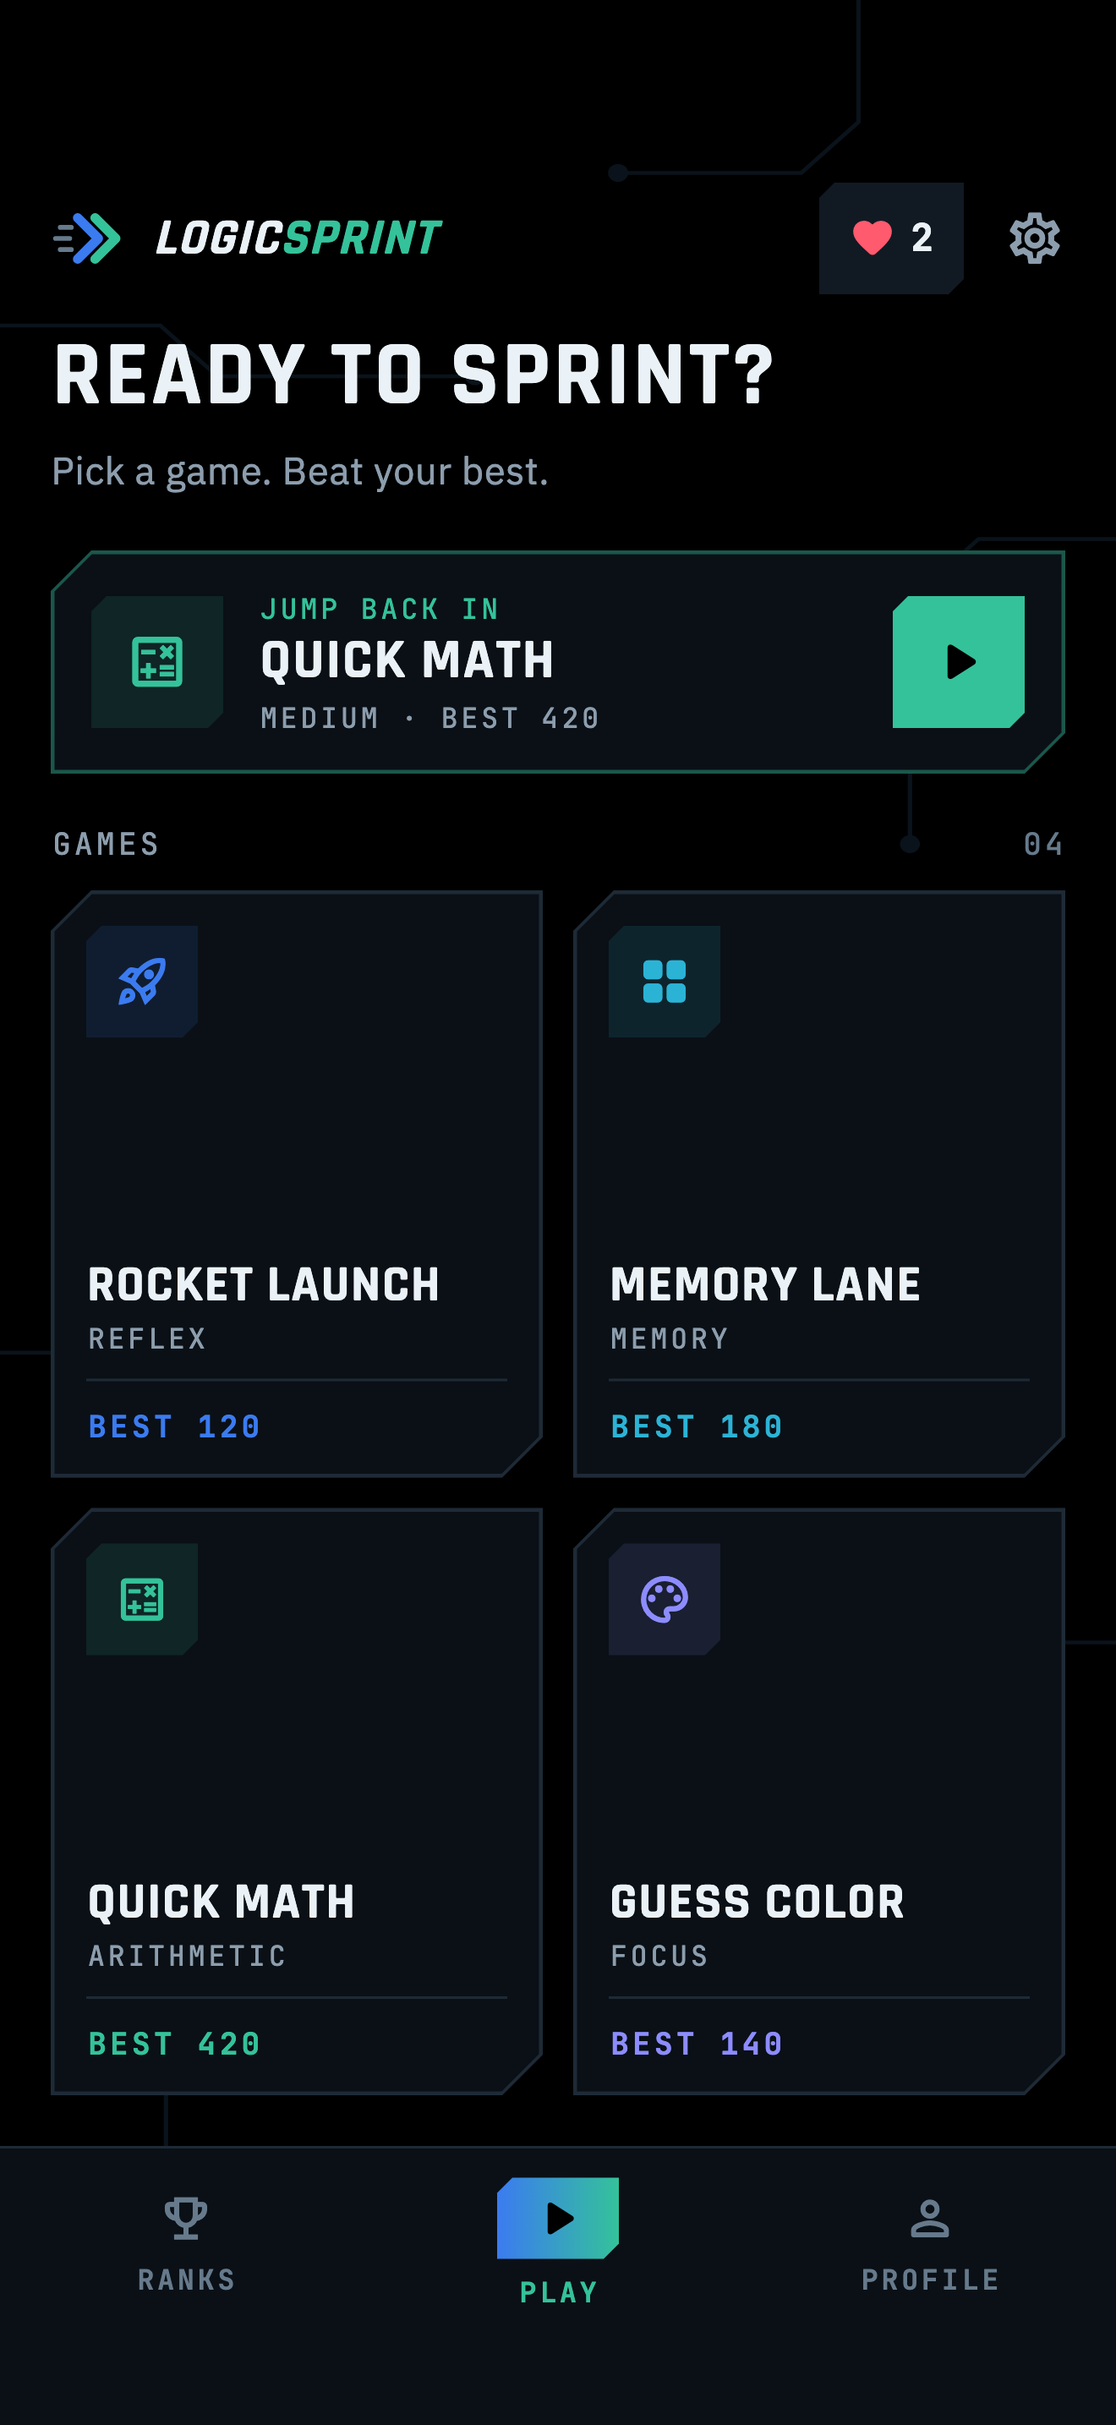
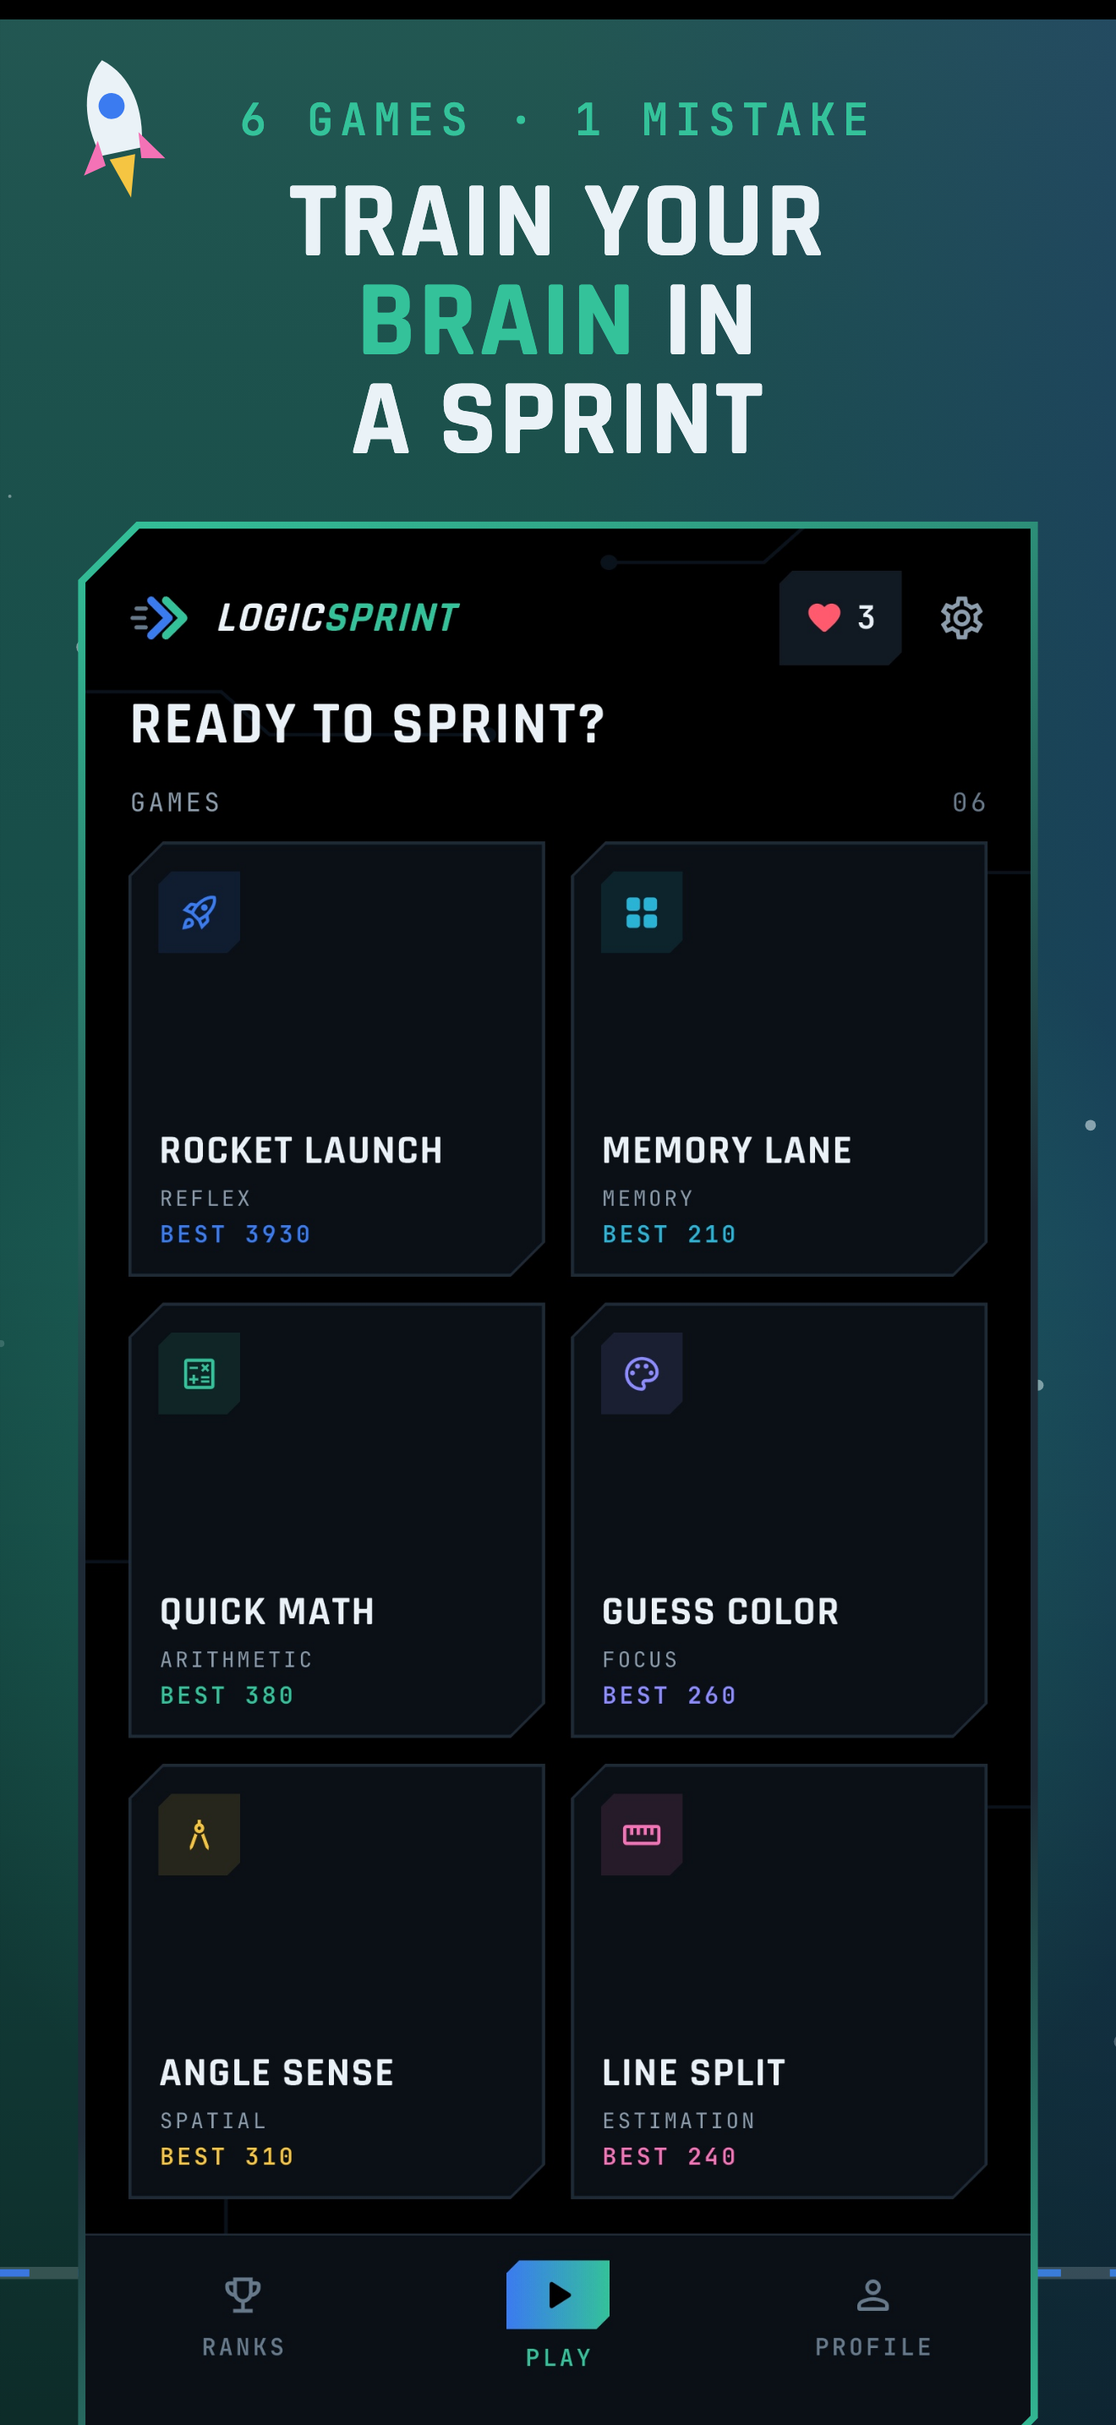
release 1.1.0+9: store screenshots, listing copy, release notes
- Version 1.1.0+9 and docs/release_notes/1.1.0.md with paste-ready
  App Store and Play text.
- New store screenshots from real 1.1 captures on a 6.9" simulator:
  10 App Store frames (1320x2868, plus 1206x2622 and 1284x2778 sets)
  and 8 Play frames (1080x1920), all RGB.
- store_shots_test.dart: home, game scenes (Medium where a game has
  levels), a Line Split miss sent as device input, and a Rocket run that
  crashes into the revive offer.
- store_listing.md: six-game descriptions, new short/promo text and
  keywords, 1.1.0 release notes, support email hello@trueorfalse.dev.

diff --git a/integration_test/store_shots_test.dart b/integration_test/store_shots_test.dart
@@ -80,12 +80,50 @@ Future<void> _hold(String scene, int ms) async {
   await Future.delayed(Duration(milliseconds: ms));
 }
 
+/// A finger on the screen, sent as device input like a real touch (the test
+/// binding draws a crosshair over test-dispatched pointers; this one shows
+/// nothing). Same as store_demo_test.dart.
+class _Touch {
+  _Touch(Offset at) : _at = at, _pointer = _nextPointer++ {
+    _send(PointerDownEvent(pointer: _pointer, position: at));
+  }
+
+  static int _nextPointer = 1000;
+  final int _pointer;
+  Offset _at;
+
+  void moveTo(Offset at) {
+    _send(PointerMoveEvent(pointer: _pointer, position: at, delta: at - _at));
+    _at = at;
+  }
+
+  void up() => _send(PointerUpEvent(pointer: _pointer, position: _at));
+
+  static void _send(PointerEvent event) =>
+      TestWidgetsFlutterBinding.instance.handlePointerEventForSource(
+        event,
+        source: TestBindingEventSource.device,
+      );
+}
+
+/// Scenes, picked with `--dart-define=SCENE=name`:
+///   (none)        Home, Ranks, Profile (top, scrolled), Rocket Launch
+///   game title    that game's first question ("Guess Color", "Angle Sense"…)
+///   Line Split    one deliberate miss, to show how close the guess was
+///   Revive        a Rocket Launch run that crashes and offers a heart
+const _scene = String.fromEnvironment('SCENE');
+
 void main() {
   final binding = IntegrationTestWidgetsFlutterBinding.ensureInitialized();
   binding.framePolicy = LiveTestWidgetsFlutterBindingFramePolicy.fullyLive;
 
   testWidgets('store shots', (tester) async {
-    SharedPreferences.setMockInitialValues(_prefs);
+    binding.shouldPropagateDevicePointerEvents = true;
+    SharedPreferences.setMockInitialValues({
+      ..._prefs,
+      // A low best, so the revive run beats it quickly.
+      if (_scene == 'Revive') 'highScore_rocketLaunch_medium': 10,
+    });
     final storage = Storage(await SharedPreferences.getInstance());
     // Recent runs for the History preview on Profile.
     for (final (i, (g, best, _, time)) in _bests.reversed.indexed) {
@@ -116,42 +154,63 @@ void main() {
     await Future.delayed(const Duration(seconds: 4));
     await tester.pump();
 
-    // --dart-define=SCENE=<name> runs one game scene only.
-    const scene = String.fromEnvironment('SCENE');
-    if (scene.isNotEmpty) {
-      await tester.tap(find.text(scene.toUpperCase()).first);
+    Future<void> startGame(String title, {String? level}) async {
+      await tester.tap(find.text(title.toUpperCase()).first);
       await tester.pump();
       await Future.delayed(const Duration(seconds: 2));
+      final pick = find.text(level ?? 'MEDIUM');
+      if (pick.evaluate().isNotEmpty) {
+        await tester.tap(pick.first);
+        await tester.pump();
+        await Future.delayed(const Duration(milliseconds: 600));
+      }
       await tester.tap(find.textContaining('START').last);
       await tester.pump();
-      await _hold('scene', 12000);
-      debugPrint('SHOT_MARK done');
-      return;
     }
 
-    await tester.tap(find.text('RANKS').last);
-    await tester.pump();
-    await _hold('ranks', 20000);
-
-    await tester.tap(find.text('PROFILE').last);
-    await tester.pump();
-    await _hold('profile', 20000);
-
-    await tester.drag(find.byType(Scrollable).first, const Offset(0, -500));
-    await tester.pump();
-    await _hold('profile_scrolled', 15000);
-
-    // Rocket Launch in the first theme (under 1250 points): white hull, blue
-    // trim, teal flame on black space, the app's own colours.
-    await tester.tap(find.text('PLAY').last);
-    await tester.pump();
-    await Future.delayed(const Duration(seconds: 2));
-    await tester.tap(find.text('ROCKET LAUNCH').first);
-    await tester.pump();
-    await Future.delayed(const Duration(seconds: 2));
-    await tester.tap(find.textContaining('START').last);
-    await tester.pump();
-    await _hold('rocket', 12000);
+    switch (_scene) {
+      case '':
+        await _hold('home', 8000);
+        await tester.tap(find.text('RANKS').last);
+        await tester.pump();
+        await _hold('ranks', 12000);
+        await tester.tap(find.text('PROFILE').last);
+        await tester.pump();
+        await _hold('profile', 12000);
+        await tester.drag(find.byType(Scrollable).first, const Offset(0, -500));
+        await tester.pump();
+        await _hold('profile_scrolled', 10000);
+        // Rocket Launch in the first theme (under 1250 points): white hull,
+        // blue trim, teal flame on black space, the app's own colours.
+        await tester.tap(find.text('PLAY').last);
+        await tester.pump();
+        await Future.delayed(const Duration(seconds: 2));
+        await startGame('Rocket Launch');
+        await _hold('rocket', 12000);
+      case 'Line Split':
+        await startGame('Line Split');
+        await Future.delayed(const Duration(milliseconds: 2500));
+        final size = tester.view.physicalSize / tester.view.devicePixelRatio;
+        final touch = _Touch(Offset(size.width * 0.23, size.height * 0.6));
+        await Future.delayed(const Duration(milliseconds: 250));
+        touch.moveTo(Offset(size.width * 0.235, size.height * 0.6));
+        await Future.delayed(const Duration(milliseconds: 250));
+        touch.up();
+        await _hold('miss', 8000);
+      case 'Revive':
+        await startGame('Rocket Launch');
+        await _hold('revive', 25000);
+      case 'Angle Sense':
+        await startGame('Angle Sense', level: 'MEDIUM');
+        await _hold('scene', 10000);
+      default:
+        await startGame(_scene);
+        await _hold('scene', 10000);
+    }
     debugPrint('SHOT_MARK done');
+
+    await tester.pumpWidget(const SizedBox());
+    await tester.pump();
+    binding.shouldPropagateDevicePointerEvents = false;
   }, timeout: const Timeout(Duration(minutes: 5)));
 }

diff --git a/assets/brand/docs/store_listing.md b/assets/brand/docs/store_listing.md
@@ -10,13 +10,13 @@ Play Console → Grow users → Store presence → Main store listing.
 LogicSprint: Brain Games
 
 ## Short description (max 80)
-Brain training games for memory, math, reflexes & focus. How far can you go?
+Six brain games for memory, math, reflexes, focus & angles. How far can you go?
 
 ## Full description (max 4000)
 ```
-Train your brain in a minute a day. LogicSprint is a free brain training app with four endless mini games for memory, mental math, reflexes and focus. Every run gets harder until your first mistake. How far can you go?
+Train your brain in a minute a day. LogicSprint is a free brain training app with six endless mini games for reflexes, memory, mental math, focus, angles and fractions. Every run gets harder until your first mistake. How far can you go?
 
-FOUR BRAIN GAMES
+SIX BRAIN GAMES
 
 • Rocket Launch (reflexes) – Pick a rocket, UFO, spaceship or missile and steer it through an asteroid storm with one finger. Space changes colour every 1250 points and the storm speeds up little by little. One hit ends the run. Can you reach 10,000?
 
@@ -26,17 +26,26 @@ FOUR BRAIN GAMES
 
 • Guess Color (focus) – A Stroop color test: tap the color a word is painted in, or the color the word names, as the COLOR | TEXT rule flips. The buttons shuffle, their labels stop matching and the clock gets shorter.
 
+• Angle Sense (angles) – Read an angle and lock it in on the degree tape, or drag the arm to match. Flat angles first, then upright and crossed lines, with clocks, pies and a compass round on Medium. Within 3° counts as Sharp. Two shields per run.
+
+• Line Split (fractions) – Touch where a number falls on the line: ½, then ⅓, ⅜, 0.43 and fractions like 11/5. The lines get longer and the middle numbers disappear as you go, and you see exactly how close you were. Two shields per run.
+
+YOUR SPRINT SCORE
+
+• One score across all six games, shown as Top X% once enough players are rated
+• Your Profile shows every game's best with its board rank, plus your full run history
+• Share your stats with one tap
+
 WHY PLAYERS LIKE IT
 
 • Quick runs, made for a coffee break or the commute
-• Up to 3 revives per run with hearts or a short video
-• Easy, Medium and Hard for Memory Lane and Quick Math
+• Up to 3 revives per run with hearts or a short video, with a 3-2-1 countdown to get ready
+• Easy, Medium and Hard for Memory Lane, Quick Math and Angle Sense
 • Global Top 10 for every game, updated daily at 00:00 UTC – pick a name with your own 4-digit code (like NEON_FOX#0420)
-• Personal bests, play counts and run history in your Profile
 • Plays offline – runs sync when you're back online
 • No login, email or sign-up
 • Pause any time; runs pause by themselves when you leave the app
-• Clean dark design built for AMOLED screens
+• Clean dark design for iPhone, iPad and Android
 
 FAIR LEADERBOARDS
 
@@ -46,7 +55,12 @@ FAIR LEADERBOARDS
 
 Free, with ads.
 
-Questions or feedback: trupal.work@gmail.com
+Questions or feedback: hello@trueorfalse.dev
+```
+
+## Release notes – 1.1.0 (What's new, max 500)
+```
+Two new games: Angle Sense and Line Split. Read angles, find fractions on a number line, and see how close you really are. Also new: a Sprint Score across all six games, a Profile with your bests and history, a 3-2-1 countdown after every revive, and a fresh loading screen.
 ```
 
 ## Release notes – 1.0.3 (What's new, max 500)
@@ -80,20 +94,10 @@ YouTube (Unlisted is fine): the Play promo cut from `tool/record_demo.sh` (see "
 ## Graphics (upload these)
 - App icon: `assets/brand/store/google_play/play_store_icon_512.png` (512×512)
 - Feature graphic: `assets/brand/store/google_play/feature_graphic_1024x500.png` (1024×500)
-- Phone screenshots, 1080×1920 (9:16): `assets/brand/store/google_play/screenshots/`, in number order (Play accepts up to 8):
-  - 02_game_sheet (Rocket Launch with the ship picker)
-  - 03_rocket_launch
-  - 04_memory_lane
-  - 05_quick_math
-  - 06_guess_color
-  - 07_result
-  - 08_ranks
-  - 09_profile
-
-  Re-render them with `SCREENSHOTS=play` (see README).
+- Phone screenshots, 1080×1920 (9:16): `assets/brand/store/google_play/screenshots/`, in number order (8): home, rocket launch, guess color, angle sense, line split, quick math, ranks, profile. Rendered from `integration_test/store_shots_test.dart` captures with the launch-kit frame design.
 
 ## Contact
-Support email: trupal.work@gmail.com
+Support email: hello@trueorfalse.dev
 
 ## Keywords
 brain games, brain training, logic games, memory game, math game, mental math, reflex game, stroop color test, focus, endless games, puzzle games, offline games, rocket launch, memory lane
@@ -111,18 +115,18 @@ LogicSprint: Brain Games
 Memory, Math & Reflex Training
 
 ## Promotional text (max 170, can change without a new version)
-Four endless brain games: Rocket Launch, Memory Lane, Quick Math and Guess Color. Climb the daily Global Top 10. No login, no sign-up.
+New: Angle Sense and Line Split. Read angles, find fractions on a number line, and see if your eye is as sharp as you think.
 
 ## Keywords (max 100, commas, no spaces)
-puzzle,logic,focus,iq,mind,stroop,color,arcade,rocket,offline,sequence,quiz,mental,arithmetic,test
+puzzle,logic,focus,iq,stroop,color,angle,fraction,estimate,rocket,offline,mental,arithmetic,test
 
 Words already in the name and subtitle (brain, games, memory, math, reflex, training) are indexed from there; don't repeat them here, and don't use other apps' names.
 
 ## Description (max 4000)
 ```
-Train your brain in a minute a day. LogicSprint is a free brain training app with four endless mini games for memory, mental math, reflexes and focus. Every run gets harder until your first mistake. How far can you go?
+Train your brain in a minute a day. LogicSprint is a free brain training app with six endless mini games for reflexes, memory, mental math, focus, angles and fractions. Every run gets harder until your first mistake. How far can you go?
 
-FOUR BRAIN GAMES
+SIX BRAIN GAMES
 
 • Rocket Launch (reflexes) – Pick a rocket, UFO, spaceship or missile and steer it through an asteroid storm with one finger. Space changes colour every 1250 points and the storm speeds up little by little. One hit ends the run. Can you reach 10,000?
 
@@ -132,17 +136,26 @@ FOUR BRAIN GAMES
 
 • Guess Color (focus) – A Stroop color test: tap the color a word is painted in, or the color the word names, as the COLOR | TEXT rule flips. The buttons shuffle, their labels stop matching and the clock gets shorter.
 
+• Angle Sense (angles) – Read an angle and lock it in on the degree tape, or drag the arm to match. Flat angles first, then upright and crossed lines, with clocks, pies and a compass round on Medium. Within 3° counts as Sharp. Two shields per run.
+
+• Line Split (fractions) – Touch where a number falls on the line: ½, then ⅓, ⅜, 0.43 and fractions like 11/5. The lines get longer and the middle numbers disappear as you go, and you see exactly how close you were. Two shields per run.
+
+YOUR SPRINT SCORE
+
+• One score across all six games, shown as Top X% once enough players are rated
+• Your Profile shows every game's best with its board rank, plus your full run history
+• Share your stats with one tap
+
 WHY PLAYERS LIKE IT
 
 • Quick runs, made for a coffee break or the commute
-• Up to 3 revives per run with hearts or a short video
-• Easy, Medium and Hard for Memory Lane and Quick Math
+• Up to 3 revives per run with hearts or a short video, with a 3-2-1 countdown to get ready
+• Easy, Medium and Hard for Memory Lane, Quick Math and Angle Sense
 • Global Top 10 for every game, updated daily at 00:00 UTC – pick a name with your own 4-digit code (like NEON_FOX#0420)
-• Personal bests, play counts and run history in your Profile
 • Plays offline – runs sync when you're back online
 • No login, email or sign-up
 • Pause any time; runs pause by themselves when you leave the app
-• Clean dark design for iPhone and iPad
+• Clean dark design for iPhone, iPad and Android
 
 FAIR LEADERBOARDS
 
@@ -152,7 +165,14 @@ FAIR LEADERBOARDS
 
 Free, with ads.
 
-Questions or feedback: trupal.work@gmail.com
+Questions or feedback: hello@trueorfalse.dev
+```
+
+## What's New – 1.1.0
+```
+Two new games: Angle Sense and Line Split. Read angles, find fractions on a number line, and see how close you really are.
+
+Also new: a Sprint Score that ranks you across all six games, a Profile with your bests and run history, a 3-2-1 countdown after every revive, and a fresh loading screen.
 ```
 
 ## What's New – 1.0.3
@@ -177,7 +197,8 @@ Primary: Games → Puzzle. Secondary: Games → Casual.
 Answer "None" for everything except **Unrestricted web access: No** and **User-generated content: Yes** (leaderboard names, which can be reported and are filtered). Expected result: 12+/13+ depending on the region's scale.
 
 ## Screenshots
-- iPhone 6.9", 1320×2868: `assets/brand/store/app_store/screenshots/` (`SCREENSHOTS=appstore`)
+- iPhone 6.9", 1320×2868: `assets/brand/store/app_store/screenshots/` (10 frames)
+- iPhone 6.1"/6.3", 1206×2622: `assets/brand/store/app_store/screenshots_6.3/` (uploaded for 1.1.0; App Store Connect uses this set for every iPhone size)
 - iPhone 6.5", 1284×2778: `assets/brand/store/app_store/screenshots_6.5/` (resized from the 6.9" set)
 - iPad 13", 2064×2752: `assets/brand/store/app_store/screenshots_ipad/` (`SCREENSHOTS=ipad`)
 

diff --git a/docs/release_notes/1.1.0.md b/docs/release_notes/1.1.0.md
@@ -1,0 +1,31 @@
+## What's new in 1.1.0
+
+**New games**
+- Angle Sense (Spatial): read an angle and lock it in, or drag the arm to match. Clocks, pies and a compass round on Medium. Within 3° counts as Sharp.
+- Line Split (Estimation): touch where a fraction or decimal falls on the number line. You see exactly how close you were.
+- Both games give you 2 shields per run; a revive gives one back.
+
+**Profile**
+- Sprint Score: one "Top X%" across all six games, shown once enough players are rated.
+- Every game's best with its board rank, a run History, and one Share button.
+
+**Also new**
+- A new loading screen that launches into the games.
+- A 3-2-1 countdown after every revive.
+- Ranks: switch games from one board, with your own row pinned.
+- Guess Color: clearer buttons and a clearer COLOR | TEXT switch.
+
+**Before release**
+- Run `supabase/schema.sql` (new games and Sprint Score) on the production project.
+
+### App Store "What's New" (paste as is)
+```
+Two new games: Angle Sense and Line Split. Read angles, find fractions on a number line, and see how close you really are.
+
+Also new: a Sprint Score that ranks you across all six games, a Profile with your bests and run history, a 3-2-1 countdown after every revive, and a fresh loading screen.
+```
+
+### Google Play "What's new" (paste as is, 500 max)
+```
+Two new games: Angle Sense and Line Split. Read angles, find fractions on a number line, and see how close you really are. Also new: a Sprint Score across all six games, a Profile with your bests and history, a 3-2-1 countdown after every revive, and a fresh loading screen.
+```
